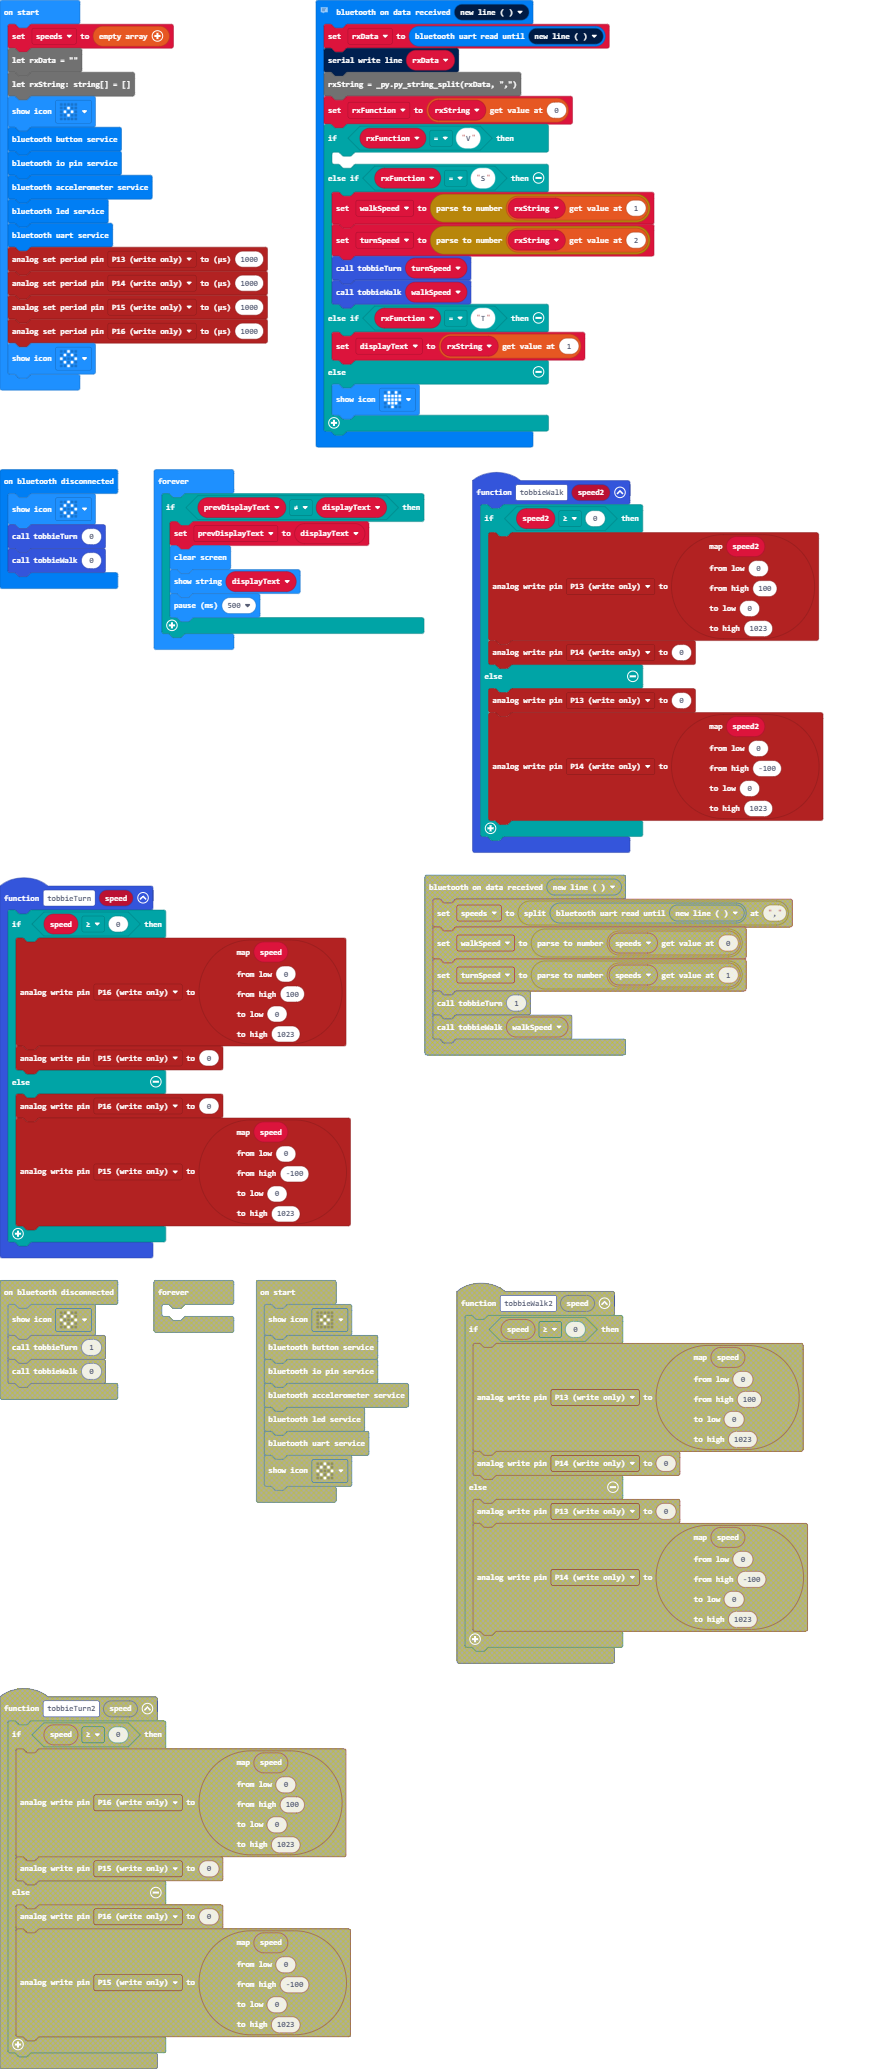
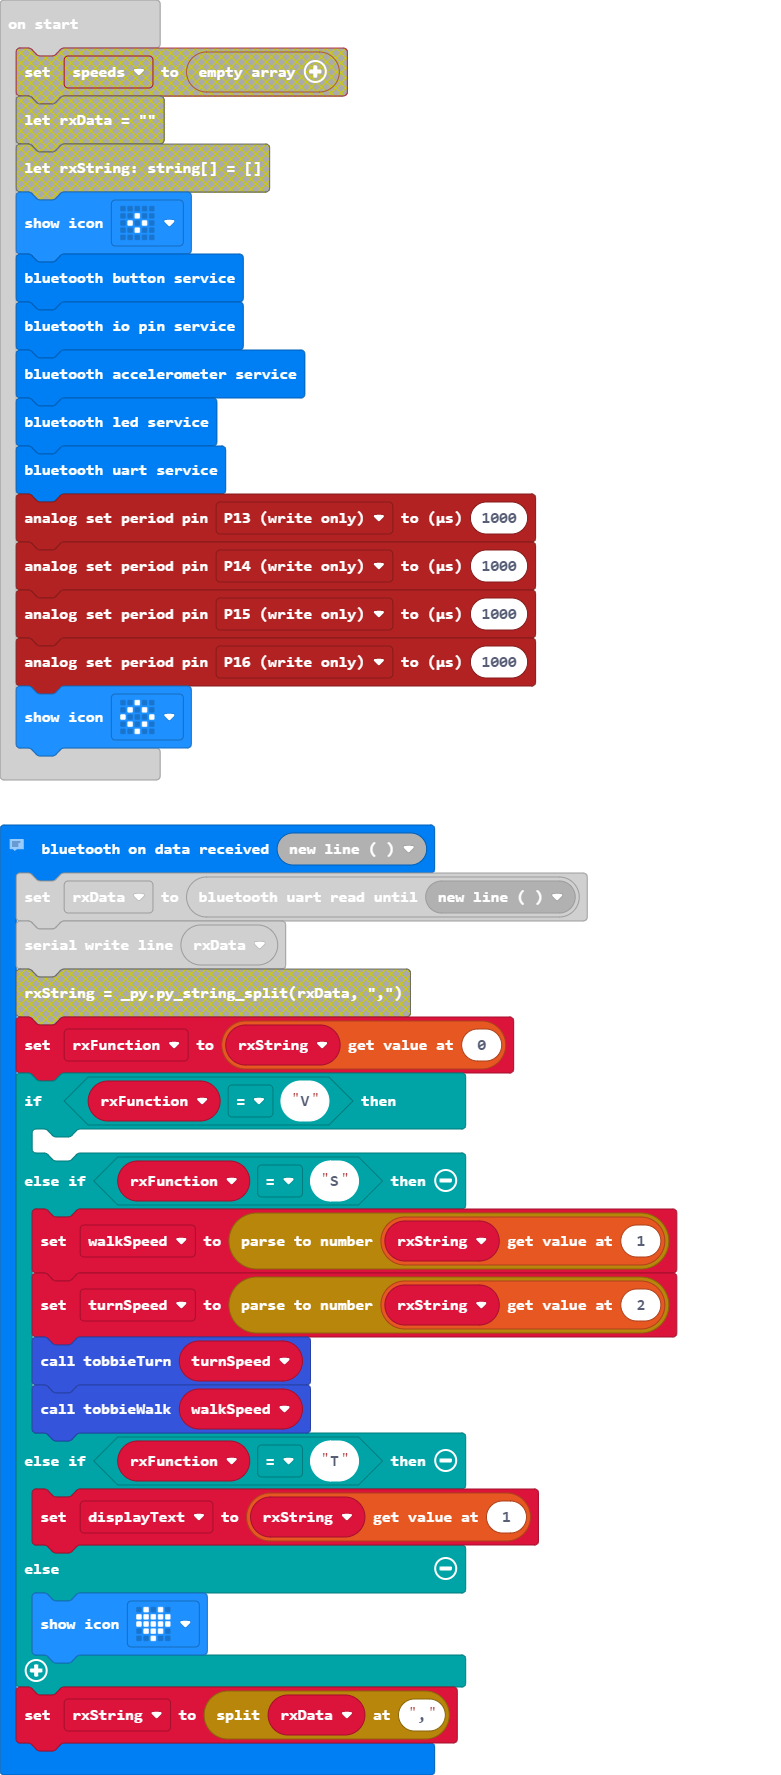
Update main.blocks, main.ts

diff --git a/main.ts b/main.ts
@@ -32,8 +32,8 @@ function tobbieTurn (speed: number) {
 bluetooth.onUartDataReceived(serial.delimiters(Delimiters.NewLine), function () {
     rxData = bluetooth.uartReadUntil(serial.delimiters(Delimiters.NewLine))
     serial.writeLine(rxData)
-    rxString = _py.py_string_split(rxData, ",")
-rxFunction = rxString[0]
+    rxString = rxData.split(",")
+    rxFunction = rxString[0]
     if (rxFunction == "V") {
     	
     } else if (rxFunction == "S") {
@@ -73,9 +73,8 @@ let displayText = ""
 let turnSpeed = 0
 let walkSpeed = 0
 let rxFunction = ""
-let speeds: number[] = []
-let rxData = ""
 let rxString: string[] = []
+let rxData = ""
 basic.showIcon(IconNames.SmallDiamond)
 bluetooth.startButtonService()
 bluetooth.startIOPinService()
@@ -91,7 +90,7 @@ basic.forever(function () {
     if (prevDisplayText != displayText) {
         prevDisplayText = displayText
         basic.clearScreen()
-        basic.showString(displayText)
+        basic.showString("" + (displayText))
         basic.pause(500)
     }
 })
